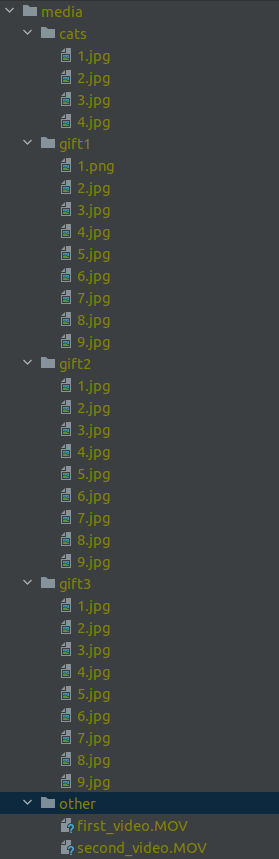
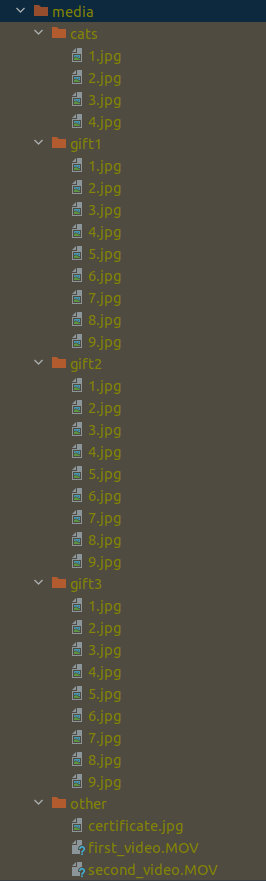
добавила основной сертификат

Changed region(s): [[0.0, 0.0, 1.0, 0.9988]]

diff --git a/main.py b/main.py
@@ -146,10 +146,14 @@ async def send_congrats(message: types.Message, state: FSMContext):
 
     with open('media/other/first_video.MOV', 'rb') as video:
         await message.answer_video(video)
-    await asyncio.sleep(3)
+    await asyncio.sleep(8)
 
     await message.answer(text=LEXICON_RU['hard_year'], parse_mode='MarkdownV2')
-    await asyncio.sleep(3)
+    await asyncio.sleep(5)
+    with open('media/other/certificate.jpg', 'rb') as photo:
+        await message.answer_photo(photo)
+
+    await asyncio.sleep(1)
     await message.answer(text=LEXICON_RU['start_game'],
                          reply_markup=question_keyboard)
 

diff --git a/media_example/description.md b/media_example/description.md
@@ -5,7 +5,8 @@
 В трех из них необходимо разместить по 9 подарочных сертификатов для проведения дальнейшей лотереи (1.jpg - 9.jpg)
 
 ## Директория other
-В четвертой директории хранится 2 видео с поздравлениями (first_vido.MOV, second_video.MOV)
+В четвертой директории хранится 2 видео с поздравлениями и подарочный сертификат 
+(first_vido.MOV, second_video.MOV, certificate.jpg)
 
 ## Директория cats
 В пятой директории хранится 4 картинки с котиками (1.jpg - 4.jpg)
